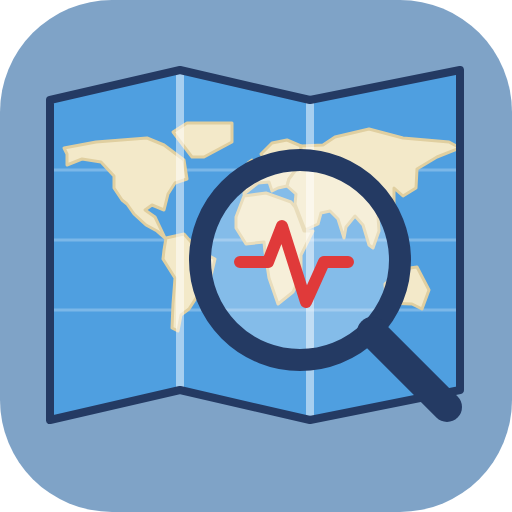
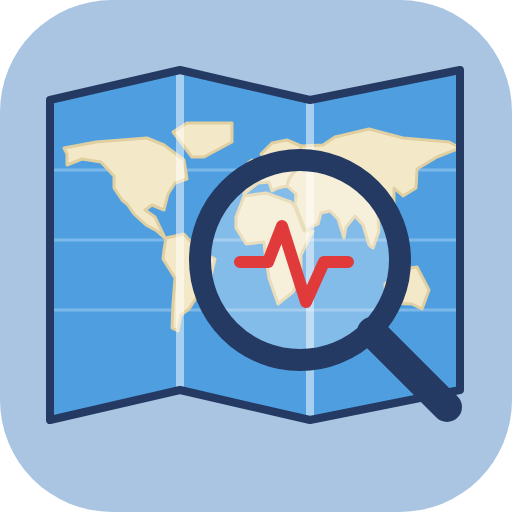
Icône : fond un peu plus foncé
Claude-Session: https://claude.ai/code/session_01RMDbPGU7oPz8pqRnpnXeUt

diff --git a/index.html b/index.html
@@ -1,5 +1,5 @@
 <meta charset="utf-8">
-<title>Carte Tectonique 4e</title><link rel="icon" type="image/svg+xml" href="icon.svg"><link rel="icon" type="image/png" sizes="32x32" href="favicon-32.png"><link rel="apple-touch-icon" href="apple-touch-icon.png"><link rel="manifest" href="manifest.webmanifest"><meta name="theme-color" content="#7fa3c7">
+<title>Carte Tectonique 4e</title><link rel="icon" type="image/svg+xml" href="icon.svg"><link rel="icon" type="image/png" sizes="32x32" href="favicon-32.png"><link rel="apple-touch-icon" href="apple-touch-icon.png"><link rel="manifest" href="manifest.webmanifest"><meta name="theme-color" content="#a9c5e2">
 <meta name="claude:viewport-fit-sides" content="cover">
 <link rel="preconnect" href="https://fonts.googleapis.com">
 <link rel="preconnect" href="https://fonts.gstatic.com" crossorigin>

diff --git a/admin.php b/admin.php
@@ -6,7 +6,7 @@ require __DIR__ . '/lib/http.php';
 <head>
 <meta charset="utf-8">
 <meta name="viewport" content="width=device-width, initial-scale=1">
-<title>Espace enseignant</title><link rel="icon" type="image/svg+xml" href="icon.svg"><link rel="icon" type="image/png" sizes="32x32" href="favicon-32.png"><link rel="apple-touch-icon" href="apple-touch-icon.png"><link rel="manifest" href="manifest.webmanifest"><meta name="theme-color" content="#7fa3c7">
+<title>Espace enseignant</title><link rel="icon" type="image/svg+xml" href="icon.svg"><link rel="icon" type="image/png" sizes="32x32" href="favicon-32.png"><link rel="apple-touch-icon" href="apple-touch-icon.png"><link rel="manifest" href="manifest.webmanifest"><meta name="theme-color" content="#a9c5e2">
 <style>
   :root { --bg:#f6f1e6; --ink:#2b2b2b; --line:#cfc6b2; --accent:#1f6f8b; --bad:#b03a2e; }
   @media (prefers-color-scheme: dark) { :root:not([data-theme="light"]) { --bg:#15191f; --ink:#e6e6e6; --line:#384150; --accent:#3cc4d9; --bad:#ff7b6b; } }
